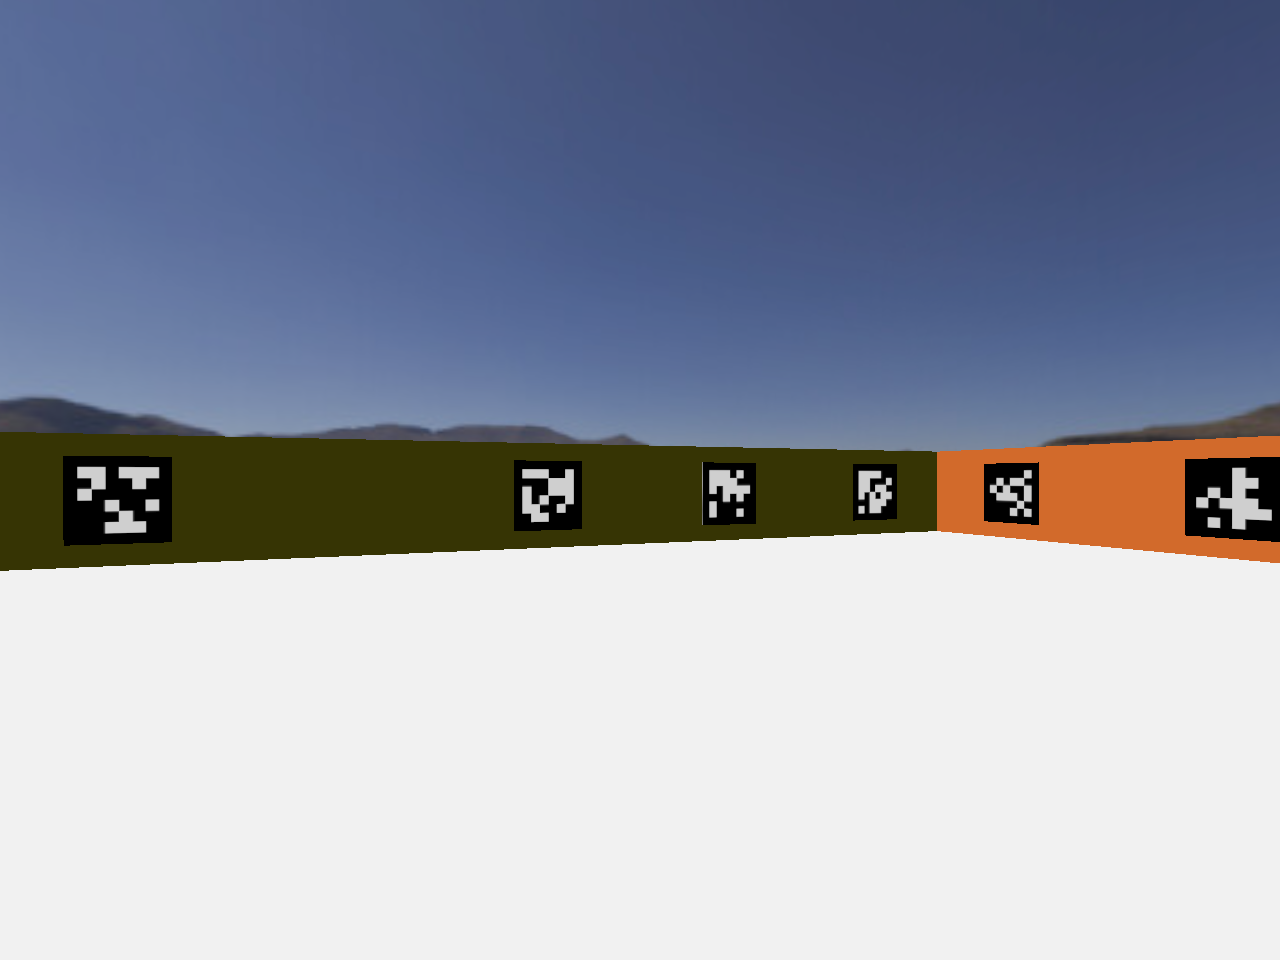
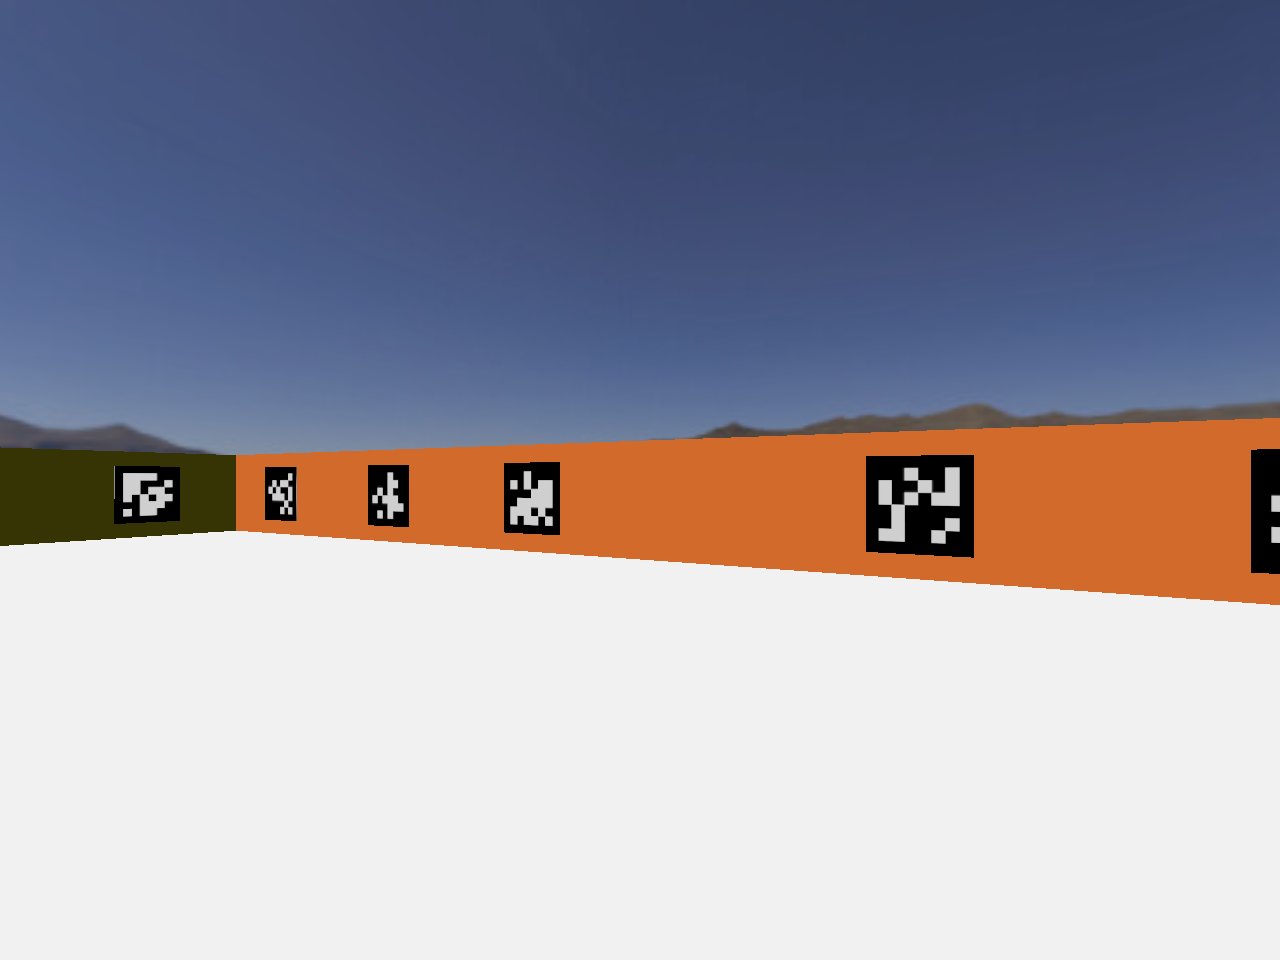
Localisation per Tag

Changed region(s): [[0.0, 0.4062, 1.0, 0.6562]]

diff --git a/controllers/epuck_camera_reader/epuck_camera_reader.m b/controllers/epuck_camera_reader/epuck_camera_reader.m
@@ -2,7 +2,7 @@ function epuck_camera_reader
 TIME_STEP = 64;
 save_sample_images = false;
 sample_every_frame = 10;
-robot_auto_rotating = true;
+robot_auto_rotating = false;
 
 camera = wb_robot_get_device('camera');
 wb_camera_enable(camera, TIME_STEP);
